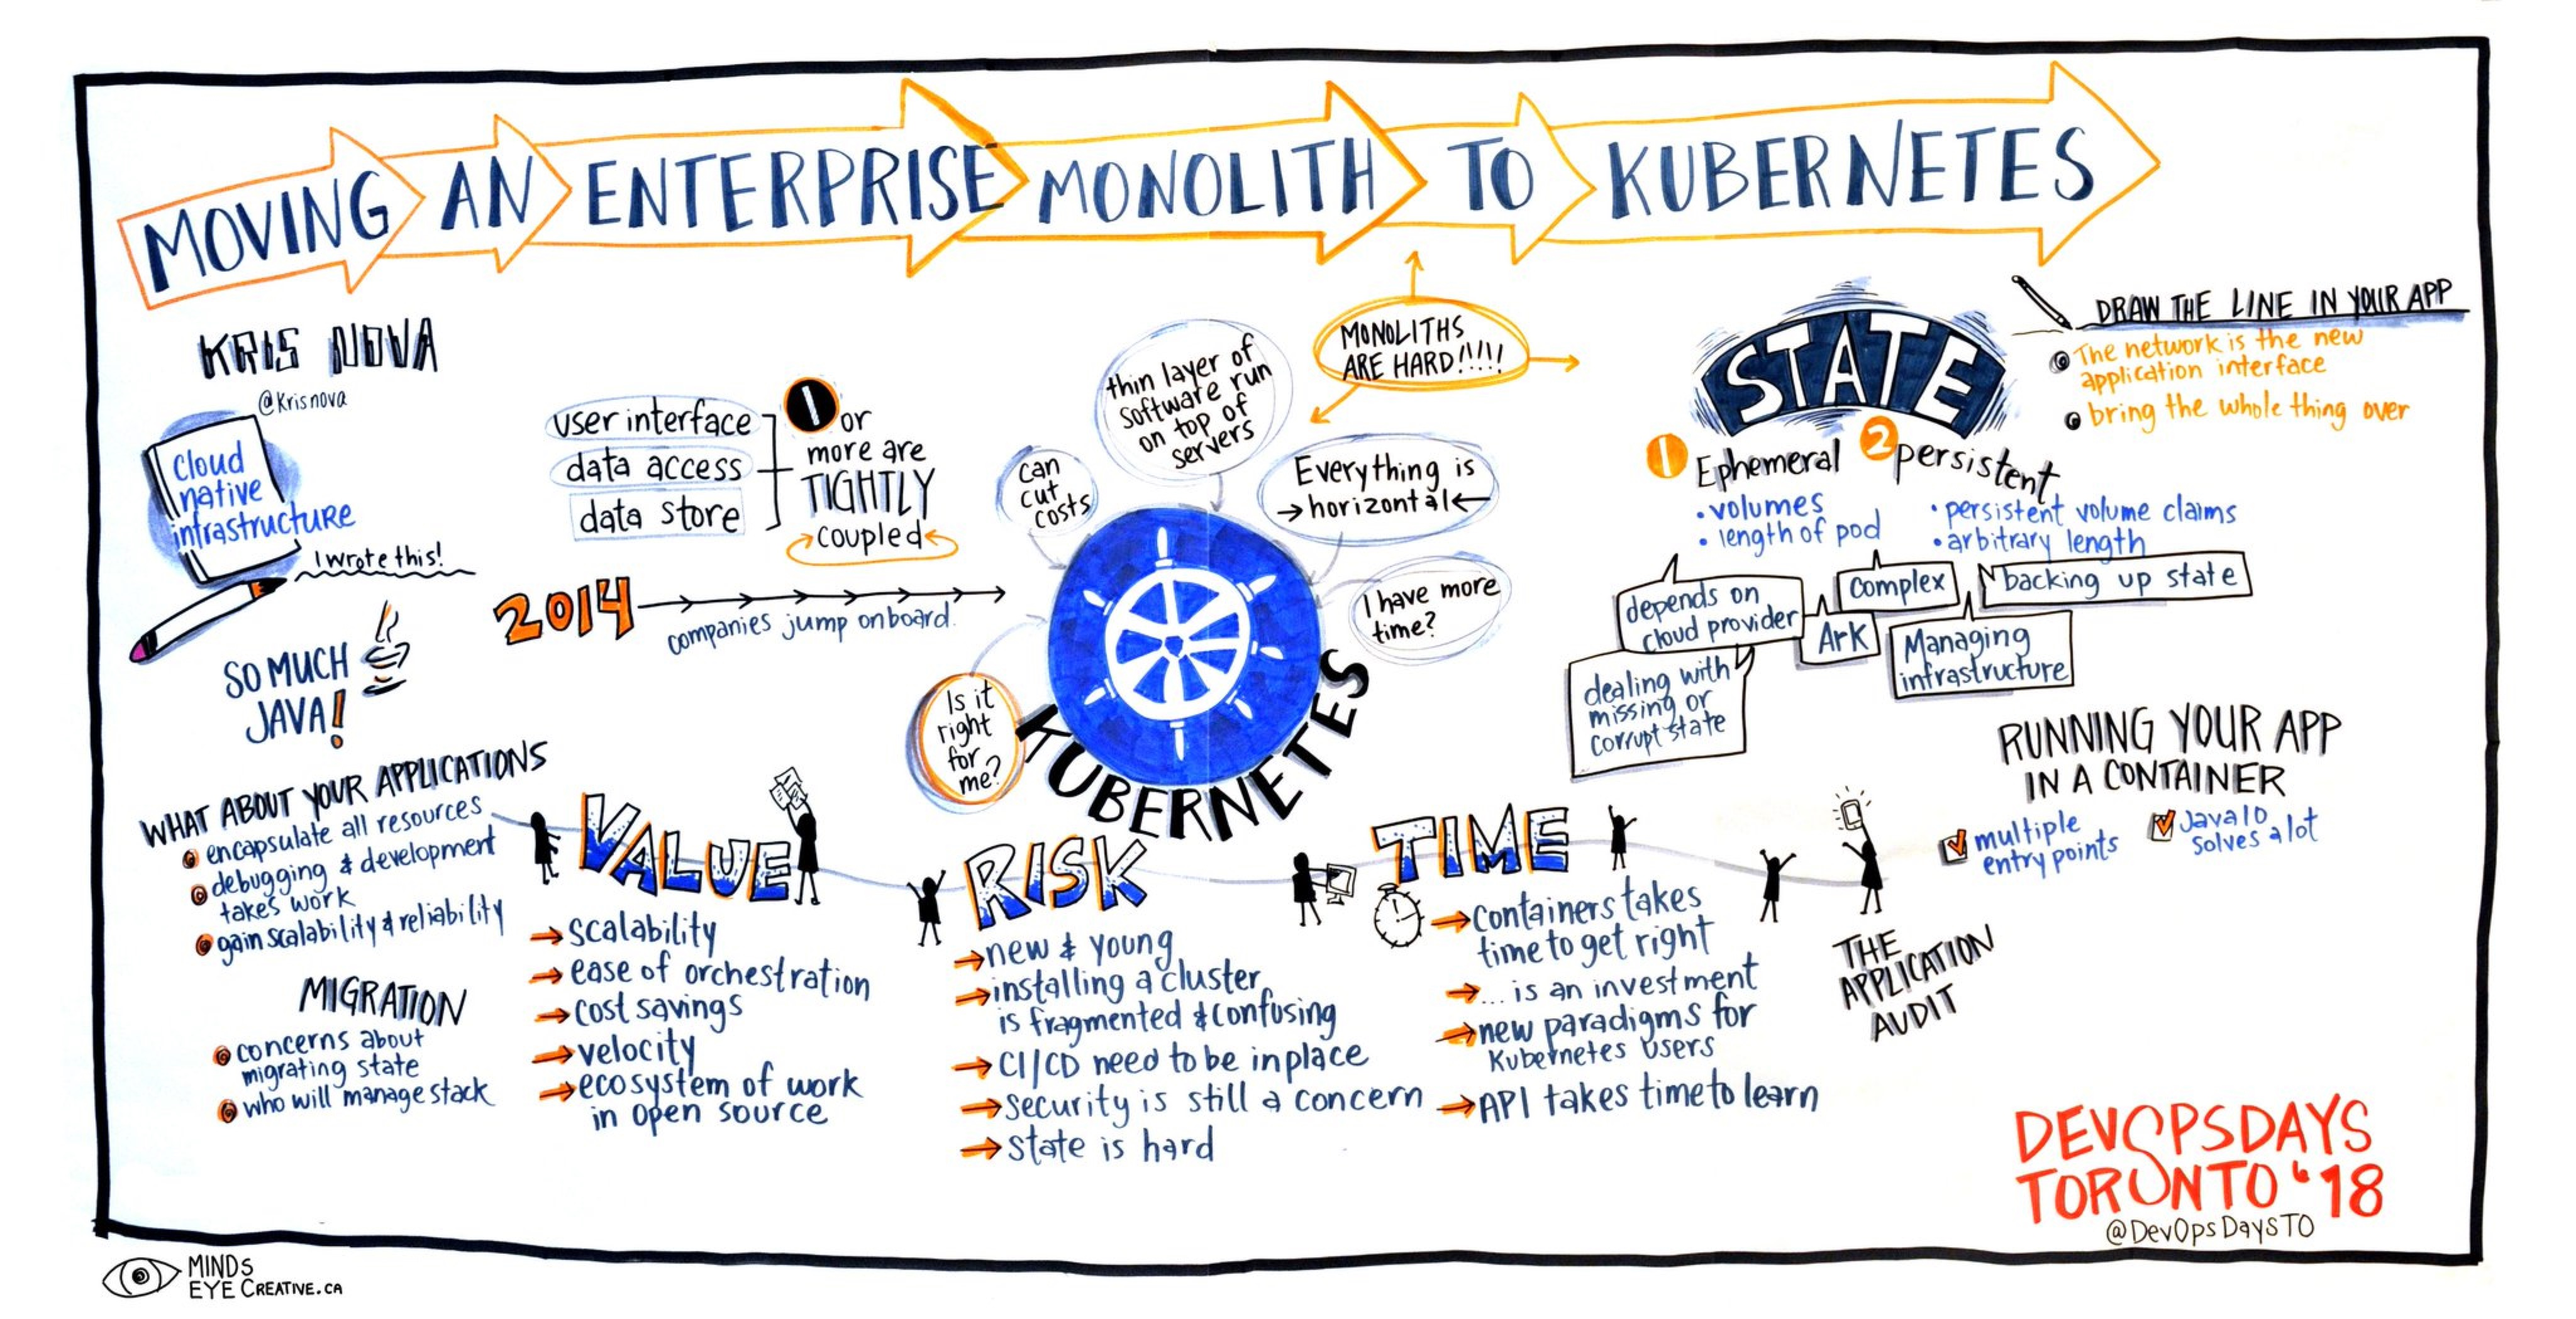
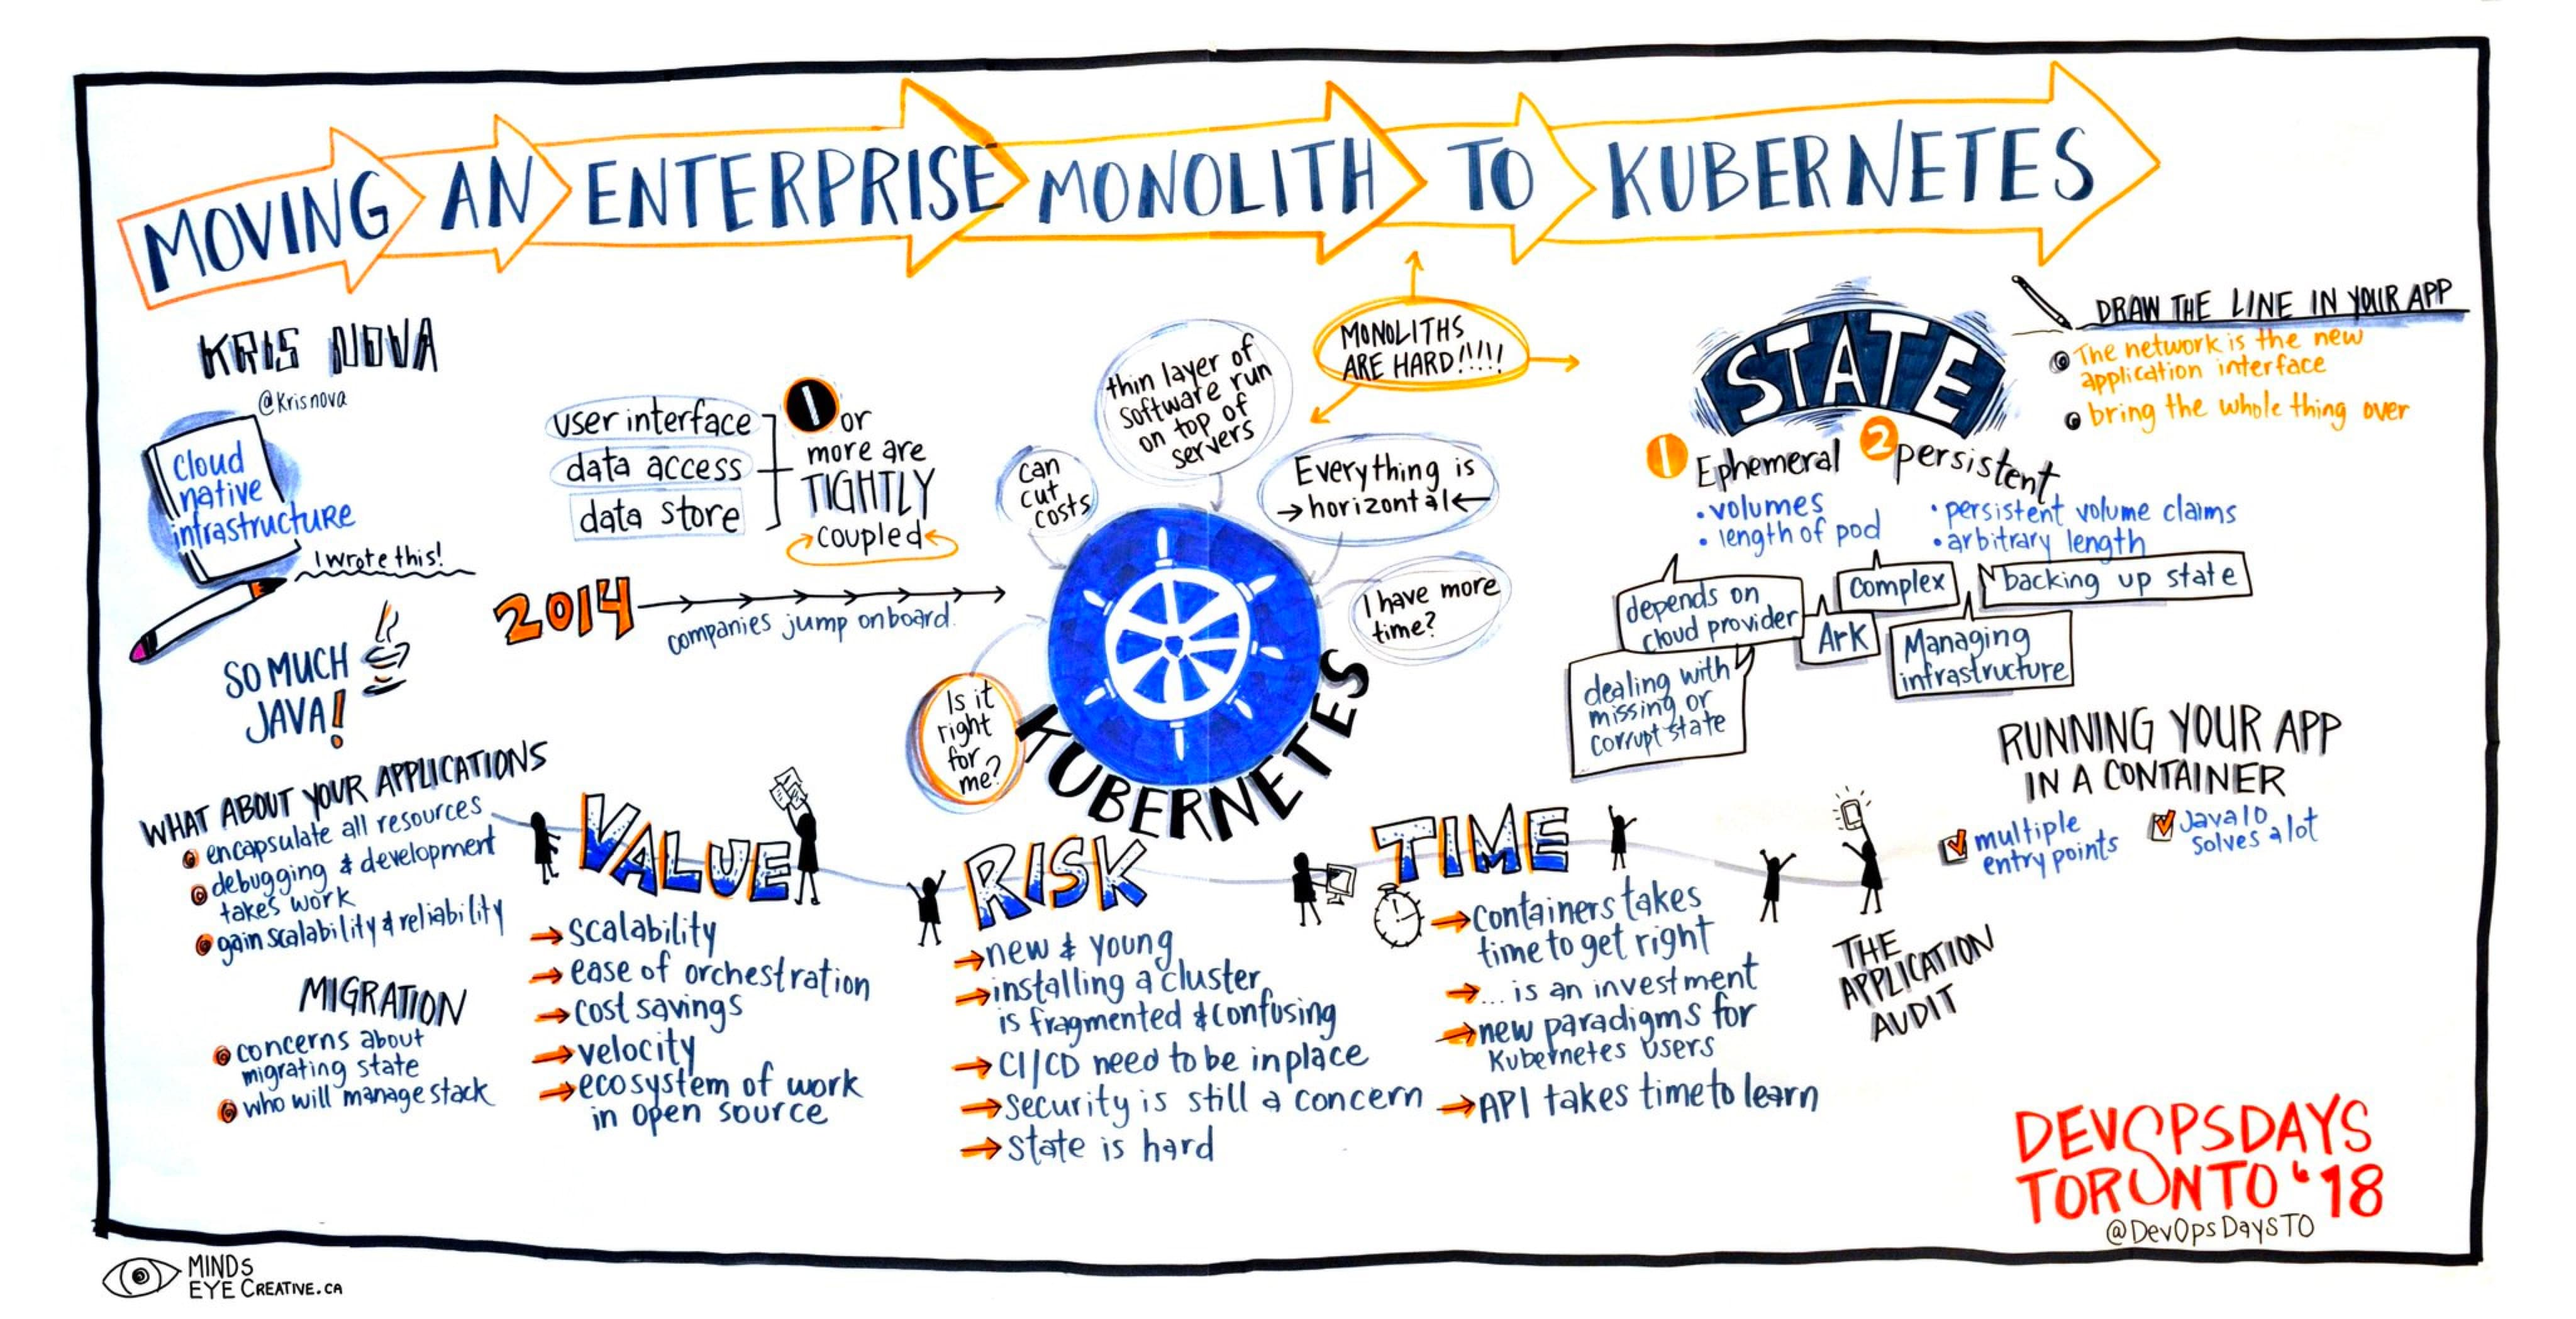
compress images

diff --git a/content/kubernetes-handbook/service-discovery/gateway.md b/content/kubernetes-handbook/service-discovery/gateway.md
@@ -80,7 +80,7 @@ Gateway API 开发者为其使用场景定义四类角色：
 
 Gateway API 通过 Kubernetes 服务网络的面向角色的设计在分布式灵活性和集中控制之间取得了平衡。使得许多不同的非协调团队可以使用共享网络基础设施（硬件负载均衡器、云网络、集群托管代理等），所有团队都受集群运维设置的策略约束。下图展示了在进行 Gateway 管理时的角色划分。
 
-![Gateway 管理中的角色划分（图片来自：https://gateway-api.sigs.k8s.io/）](../../images/gateway-roles.png)
+![Gateway 管理中的角色划分（图片来自：https://gateway-api.sigs.k8s.io/）](../../images/gateway-roles.jpg)
 
 集群运维人员创建从 [GatewayClass](https://gateway-api.sigs.k8s.io/api-types/gatewayclass) 派生的 [Gateway](https://gateway-api.sigs.k8s.io/api-types/gateway) 资源。此 Gateway 部署或配置它所代表的底层网络资源。通过 Gateway 和 Route 之间的[路由附加进程](https://gateway-api.sigs.k8s.io/concepts/api-overview#attaching-routes-to-gateways) ，集群运维人员和特定团队必须就可以附加到此 Gateway 并通过它公开其应用程序的内容达成一致。集群运维人员可以在网关上实施  [TLS](https://gateway-api.sigs.k8s.io/guides/tls#downstream-tls) 集中式策略。同时，Store 和 Site 团队[在他们自己的 Namespaces 中](https://gateway-api.sigs.k8s.io/guides/multiple-ns)运行，但是将他们的 Routes 附加到同一个共享 Gateway，允许他们独立控制自己的[路由逻辑](https://gateway-api.sigs.k8s.io/guides/http-routing)。这种关注点分离允许 Store 队管理自己的[流量拆分部署](https://gateway-api.sigs.k8s.io/guides/traffic-splitting)，同时将集中策略和控制权留给集群运维人员。
 

diff --git a/content/kubernetes-handbook/devops/ci-cd.md b/content/kubernetes-handbook/devops/ci-cd.md
@@ -41,7 +41,7 @@ CI/CD 的主要优势包括：
 
 [ArgoCD](https://argo-cd.readthedocs.io/en/stable/) 是一个开源的 GitOps 工具，用于持续交付和部署应用程序。它与 Git 仓库集成，通过监视代码仓库中的更改来自动部署应用程序。ArgoCD 提供了一个直观的用户界面和命令行工具，支持声明性的应用程序定义，以及应用程序的版本控制和回滚功能。ArgoCD 是 CNCF（Cloud Native Computing Foundation）的一部分，因此选择它作为代表介绍 CI/CD 工具的功能和优势。
 
-![ArgoCD  Web UI](../../images/argocd-webui.png)
+![ArgoCD  Web UI](../../images/argocd-ui.jpg)
 
 ArgoCD 的目标是通过基于 Git 仓库的声明性配置来自动化应用程序的部署和更新过程。以下是对 ArgoCD 的详细介绍：
 

diff --git a/content/kubernetes-handbook/multi-cluster/federation.md b/content/kubernetes-handbook/multi-cluster/federation.md
@@ -268,7 +268,7 @@ spec:
 
 该配置示意图如下所示。
 
-![RSP](../../images/kubefed-rsp.png "RSP")
+![RSP](../../images/kubefed-rsp.jpg "RSP")
 
 当该范例建立后，RSP Controller 会收到资源，并匹配对应 namespace/name 的 FederatedDeployment 与 FederatedReplicaSet 是否存在，若存在的话，会根据设定的策略计算出每个集群预期的副本数，之后覆写 Federated 资源中的 `spec.overrides` 内容以修改每个集群的副本数，最后再由 KubeFed Sync Controller 来同步至每个集群的 Deployment。以上面为例，结果会是 ap-northeast 集群会拥有 3 个 Pod，us-east 跟 us-west 则分别会有 6 个 Pod。
 

diff --git a/content/kubernetes-handbook/devops/deploy-applications-in-kubernetes.md b/content/kubernetes-handbook/devops/deploy-applications-in-kubernetes.md
@@ -154,6 +154,6 @@ kubectl apply -n default -f <(istioctl kube-inject -f k8s-app-monitor-istio-all-
 
 访问 `http://zipkin.istio.jimmysong.io` 可以选择查看 `k8s-app-monitor-agent` 应用的追踪信息。
 
-![Zipkin页面](../../images/k8s-app-monitor-istio-zipkin.png "Zipkin页面")
+![Zipkin页面](../../images/k8s-app-monitor-istio-zipkin.jpg "Zipkin页面")
 
 至此从代码提交到上线到 Kubernetes 集群上并集成 Istio 服务网格的过程就全部完成了。
